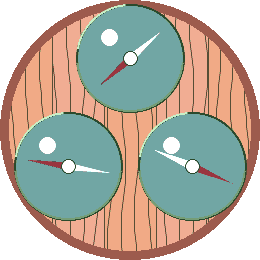
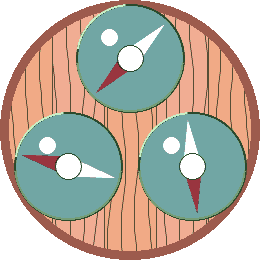
Tune layout and needle proportions
- Vertically center the orb triangle on the rect screen (drop centroid by
  circumradius/4 so top and bottom margins balance; round screen unchanged)
- Needles longer (95% of orb radius, tips nearly touch the glass) and wider
  (blade half-width 22% of orb radius), pivot ball scaled to match

Changed region(s): [[0.6154, 0.4615, 0.8923, 0.8308], [0.0923, 0.5846, 0.4308, 0.7077], [0.3692, 0.0923, 0.6462, 0.3692]]

diff --git a/src/c/pebble-onepiece-logpose-face.c b/src/c/pebble-onepiece-logpose-face.c
@@ -76,13 +76,20 @@ static void prv_layout(Layer *root) {
   const int circum = min_dim * 31 / 100;      // 62 px on emery
 #endif
 
+#ifndef PBL_ROUND
+  // On the taller rectangular screen, the top orb reaches circum+r above the
+  // centroid but only circum/2+r below it. Drop the centroid by circum/4 so
+  // the top and bottom margins balance and the trio feels vertically centered.
+  c.y += circum / 4;
+#endif
+
   s_orb_center[ORB_TOP]   = GPoint(c.x, c.y - circum);
   s_orb_center[ORB_LEFT]  = GPoint(c.x - circum * 866 / 1000, c.y + circum / 2);
   s_orb_center[ORB_RIGHT] = GPoint(c.x + circum * 866 / 1000, c.y + circum / 2);
 
-  s_needle_front_len = s_orb_radius * 86 / 100;  // tips nearly touch the glass
+  s_needle_front_len = s_orb_radius * 95 / 100;  // tips nearly touch the glass
   s_needle_back_len = s_needle_front_len;        // equal-length white side
-  s_needle_half_w = MAX(3, s_orb_radius * 11 / 100);
+  s_needle_half_w = MAX(3, s_orb_radius * 219 / 1000);
   s_pivot_radius = s_needle_half_w + 2;
 }
 
